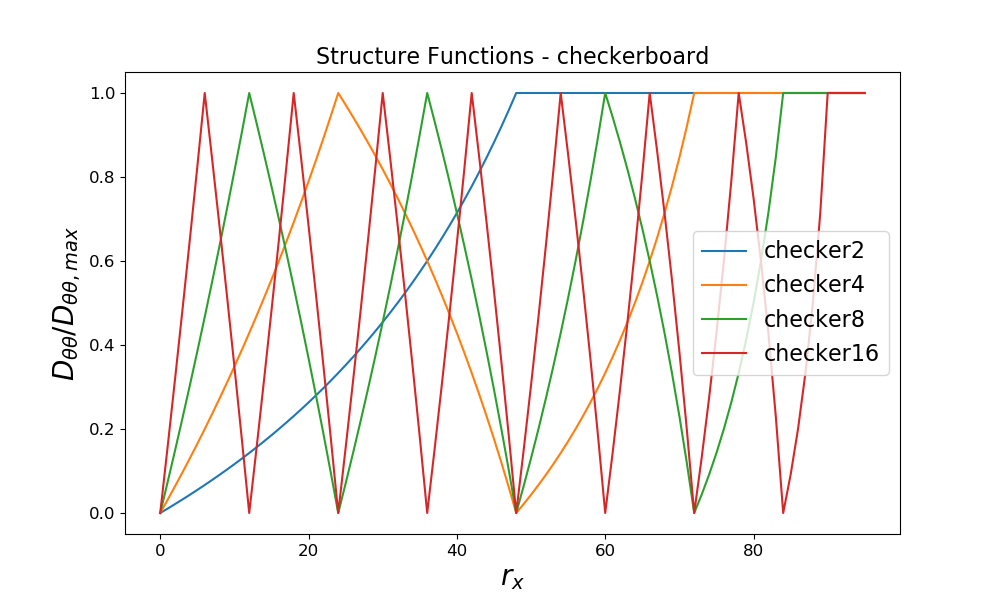
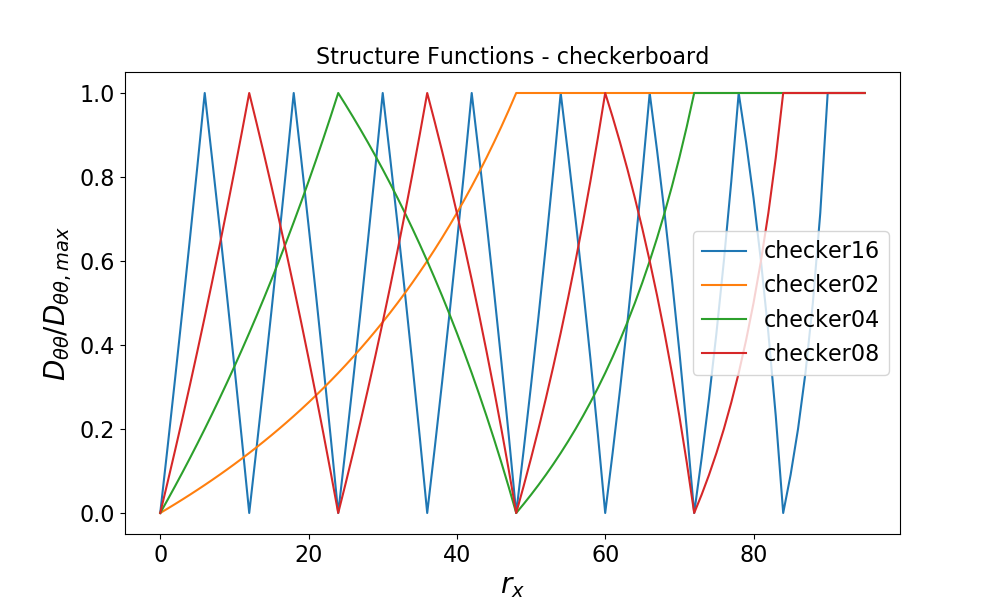
minor edits

diff --git a/quantify_het/quantify_het.py b/quantify_het/quantify_het.py
@@ -60,7 +60,7 @@ for filename in os.listdir(lp):
         
         # calculate rx and semivariogram, append int_scale
         rx, semivar, int_scale = fn.semivariogram(arr)
-        int_scale_dict[filename] = int_scale
+        int_scale_dict[filename[:-17]] = int_scale
         
         # create figure
         ax.plot(rx,semivar/np.max(semivar),label=f"{filename[:-17]}")
@@ -70,12 +70,12 @@ for filename in os.listdir(lp):
 # formatting and labels
 ax.set_xlabel(r'$r_x$',fontsize=20)
 ax.set_ylabel(r'$D_{\theta\theta}/D_{\theta\theta,max}$',fontsize=20)
-ax.tick_params(labelsize=12)
+ax.tick_params(labelsize=16)
 plt.legend(fontsize=16)
 
 # titlestring
 if noise:
-    nstring = ["(Noise)","_noise"]
+    nstring = [" (Noise)","_noise"]
 else:
     nstring = ["",""]
 ax.set_title(f"Structure Functions - {pattern}"+nstring[0],fontsize=16)
@@ -85,19 +85,17 @@ fname = f'{pattern}' + nstring[1] + '.png'
 plt.savefig(os.path.join(root,'results','structure_functions',fname))
 
 # bar graph of int length scales
-fig, ax = plt.subplots()
-plt.bar(int_scale_dict.keys(), int_scale_dict.values())
+fig, ax = plt.subplots(figsize=(9,6))
+width=0.35
+ax.bar(int_scale_dict.keys(), int_scale_dict.values(),width=width)
+ax.set_title(f'Integral Het. Scale - {pattern}'+nstring[0],fontsize=20)
+ax.set_ylabel(r'$L_p$',fontsize=20)
+ax.tick_params(labelsize=16)
+plt.show()
 
 
-#plt.imshow(arr)
-#plt.show()
-##### calculation semivariogram #####
+##### using scikit-gstat #####
 
-# using my method
-
-
-
-## using scikit-gstat
 #from skgstat import Variogram
 ## random coordinates
 #coords = np.random.randint(0, np.shape(arr)[0], (150,2))
@@ -106,14 +104,5 @@ plt.bar(int_scale_dict.keys(), int_scale_dict.values())
 #V.plot()
 #V.distance_difference_plot()
 
-
-
-#
-#
-#a_dictionary = {"a": 1, "b": 2, "c": 3}
-#keys = a_dictionary.keys()
-#values = a_dictionary.values()
-#
-#plt.bar(keys, values)
 
 

diff --git a/create_surfaces/create_checkerboard.py b/create_surfaces/create_checkerboard.py
@@ -48,9 +48,9 @@ checker16 = fn.conv_np_array_reso(np.tile(base_pattern,(8,8)),Nx)
 #### write arrays and images to a file ####
 
 # save text files
-np.savetxt(os.path.join(sp,f'checker2_{label}_reso{Nx}.txt'), checker2, delimiter=' ',fmt='%.2f')
-np.savetxt(os.path.join(sp,f'checker4_{label}_reso{Nx}.txt'), checker4, delimiter=' ',fmt='%.2f')
-np.savetxt(os.path.join(sp,f'checker8_{label}_reso{Nx}.txt'), checker8, delimiter=' ',fmt='%.2f')
+np.savetxt(os.path.join(sp,f'checker02_{label}_reso{Nx}.txt'), checker2, delimiter=' ',fmt='%.2f')
+np.savetxt(os.path.join(sp,f'checker04_{label}_reso{Nx}.txt'), checker4, delimiter=' ',fmt='%.2f')
+np.savetxt(os.path.join(sp,f'checker08_{label}_reso{Nx}.txt'), checker8, delimiter=' ',fmt='%.2f')
 np.savetxt(os.path.join(sp,f'checker16_{label}_reso{Nx}.txt'), checker16, delimiter=' ',fmt='%.2f')
 
 # save images of checkerboards
